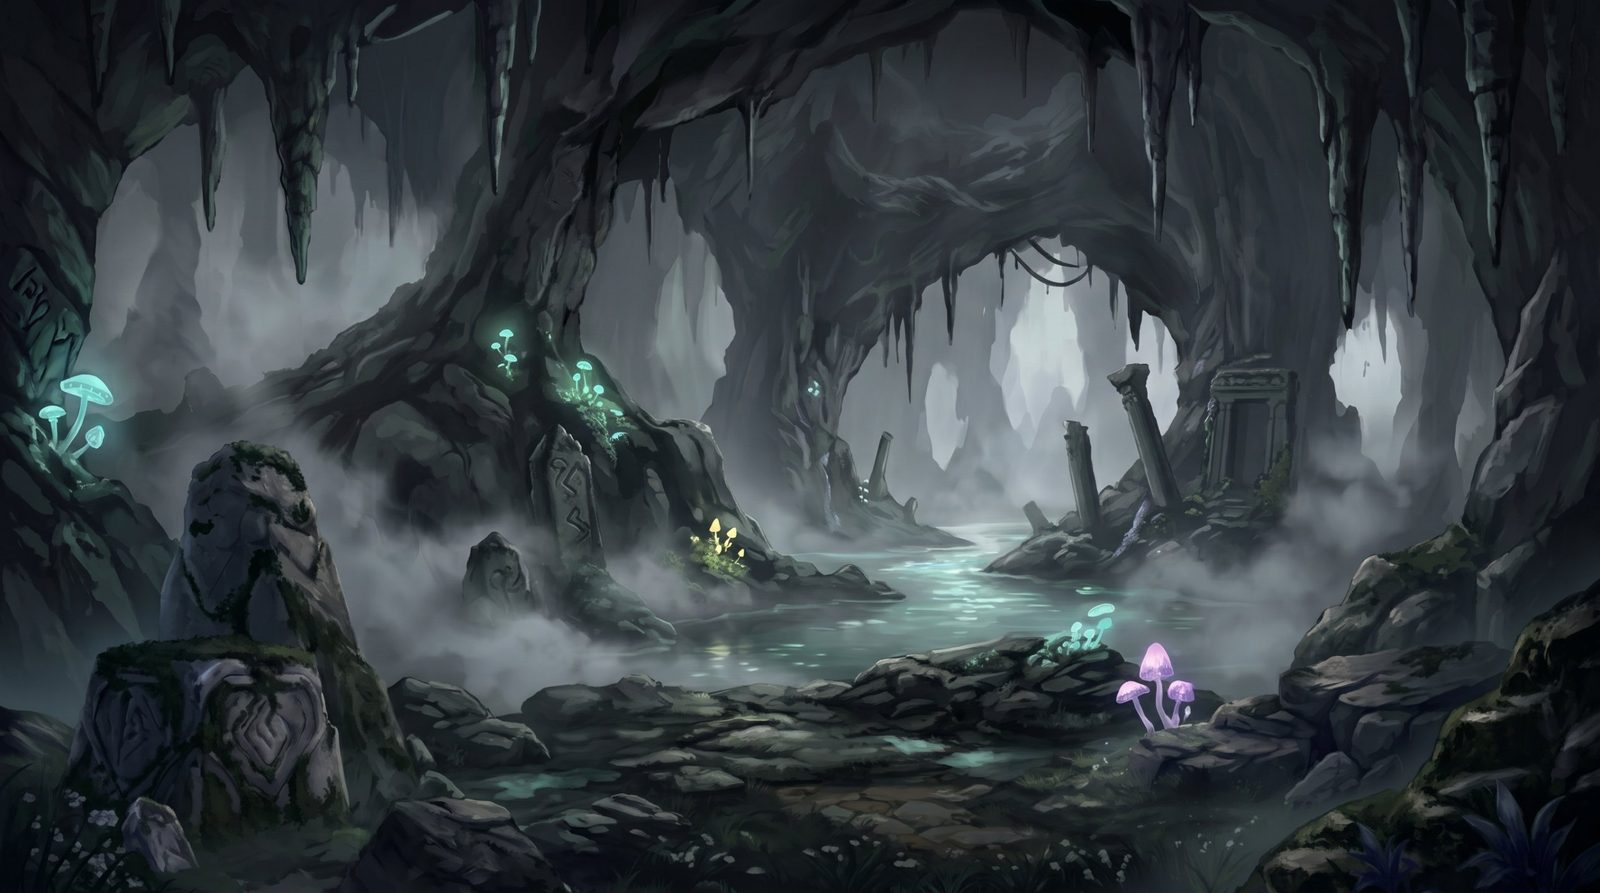
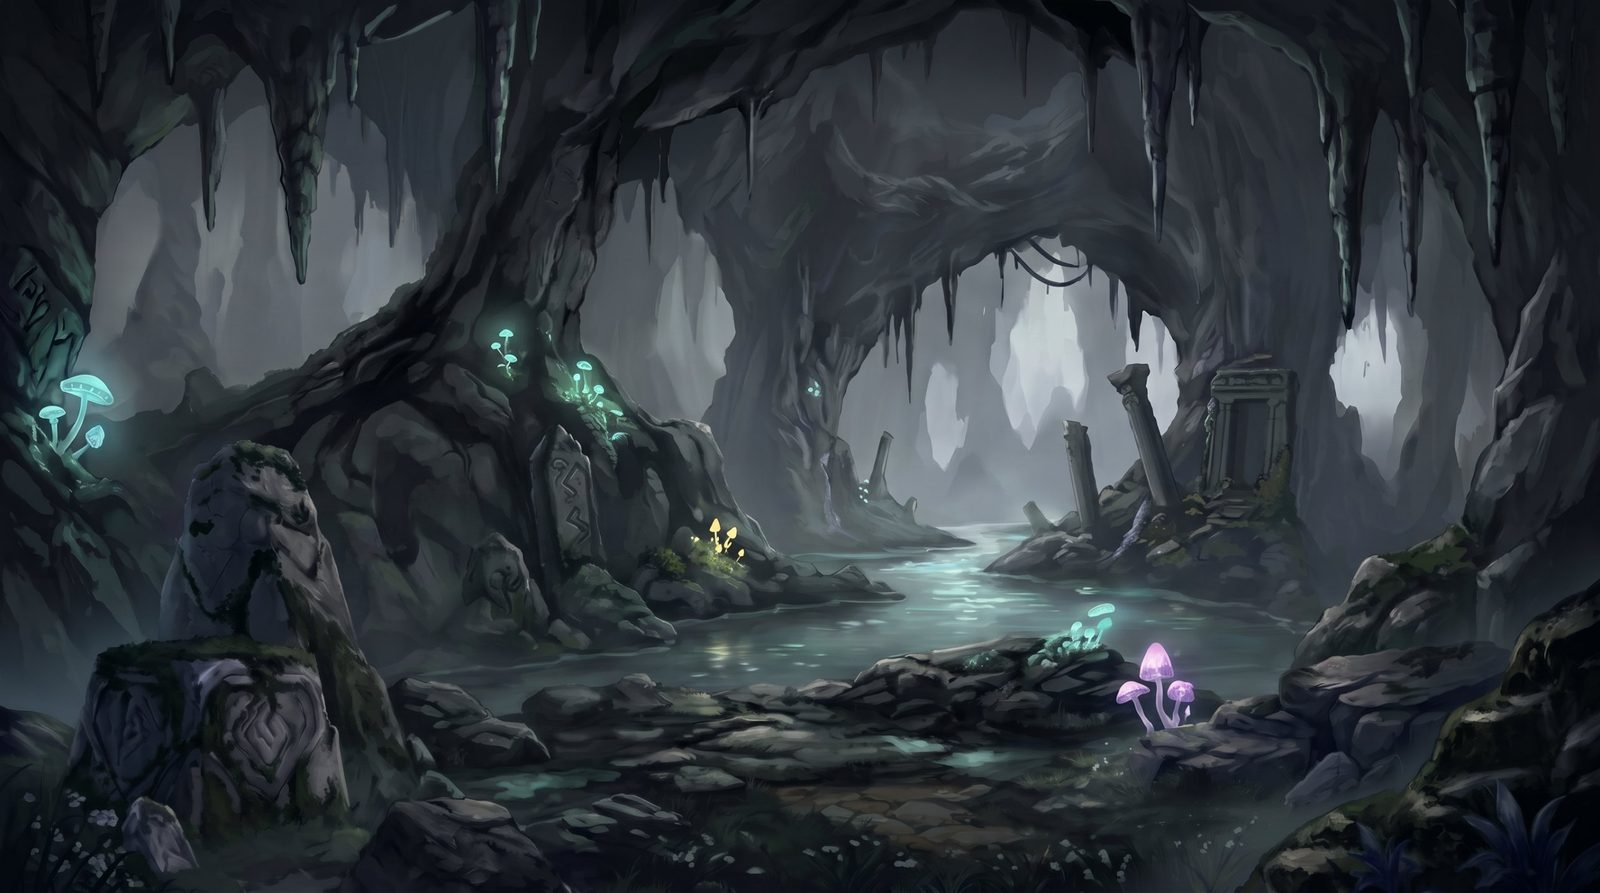
冒険3面（霧の洞窟）の朝・昼・夕方・夜の画像を追加
Claude-Session: https://claude.ai/code/session_01EftAGzqa5a4WGGvn4eGGrQ

diff --git a/index.html b/index.html
@@ -2187,7 +2187,7 @@
         <button onclick="openCouponModal()" title="秘密の鍵"
             style="background:rgba(5,20,10,0.55);border:1px solid rgba(60,140,80,0.35);border-radius:20px;padding:3px 9px;font-size:11px;cursor:pointer;color:rgba(140,200,150,0.65);display:flex;align-items:center;gap:3px;transition:all 0.3s;font-family:'Noto Serif JP',serif;letter-spacing:0.03em;opacity:0.7;flex-shrink:0;">🗝</button>
         <button id="accountChip" onclick="Cloud.chipClick()" title="アカウント"></button>
-        <div style="font-size:9px;letter-spacing:0.12em;color:rgba(200,170,80,0.45);font-family:'Noto Serif JP',serif;text-align:center;flex:1;padding:0 6px;">Designed by Takahiro Iimura<br><span id="appVersion" style="opacity:.8;">ver. 2026.11.02-1525</span></div>
+        <div style="font-size:9px;letter-spacing:0.12em;color:rgba(200,170,80,0.45);font-family:'Noto Serif JP',serif;text-align:center;flex:1;padding:0 6px;">Designed by Takahiro Iimura<br><span id="appVersion" style="opacity:.8;">ver. 2026.11.02-1540</span></div>
         <button id="bgmBtn" onclick="toggleBGM()" title="BGM ON/OFF"
             style="background:rgba(30,20,5,0.7);border:1.5px solid rgba(220,170,50,0.7);border-radius:20px;padding:3px 10px;font-size:12px;cursor:pointer;color:rgba(220,170,50,0.85);display:flex;align-items:center;gap:4px;transition:all 0.3s;font-family:'Noto Serif JP',serif;letter-spacing:0.05em;flex-shrink:0;">🔇 BGM</button>
     </div>
@@ -8240,7 +8240,7 @@ const Cloud = (function () {
     const ADV_AREAS = [
         { key: 'meadow',   imgs: ['morning', 'day', 'evening', 'night'], tod: 1, name: 'はじまりの草原', icon: '🌄', goal: '🗺', tint: '#a8d870', enc: ['🐇 野うさぎが道をふさいだ', '🪧 古い道しるべに文字が刻まれている', '🧚 草原の妖精が問いかけてきた', '🐦 小鳥が手紙をくわえてきた'] },
         { key: 'forest',   imgs: ['morning', 'day', 'evening', 'night'], tod: 1,   name: 'ささやきの森', icon: '🌲', goal: '🏕', tint: '#8fd060', enc: ['🍄 キノコの精が問いかけてきた', '🦊 森のキツネがなぞなぞを出した', '🌿 木の幹に古い文字が刻まれている', '🦉 フクロウが言葉の意味をたずねた'] },
-        { key: 'cave',     imgs: ['day'], tod: .35, name: '霧の洞窟',     icon: '🦇', goal: '💎', tint: '#8fa0ff', enc: ['🦇 コウモリの群れが道をふさいだ', '🕯 壁に光る文字が浮かび上がった', '🗝 錆びた扉に謎の言葉が…', '💧 地底湖に言葉が映っている'] },
+        { key: 'cave',     imgs: ['morning', 'day', 'evening', 'night'], tod: .35, name: '霧の洞窟',     icon: '🦇', goal: '💎', tint: '#8fa0ff', enc: ['🦇 コウモリの群れが道をふさいだ', '🕯 壁に光る文字が浮かび上がった', '🗝 錆びた扉に謎の言葉が…', '💧 地底湖に言葉が映っている'] },
         { key: 'hill',     imgs: ['day'], tod: .3,  name: '星降る丘',     icon: '⛰', goal: '🔭', tint: '#c9a6ff', enc: ['⭐ 流れ星が言葉を落としていった', '🐑 羊飼いの少年が道をたずねた', '🌙 月の精がささやいた', '🪁 風に乗って手紙が飛んできた'] },
         { key: 'ruins',    imgs: ['day'], tod: 1,   name: '古代の遺跡',   icon: '🏛', goal: '📜', tint: '#e8b850', enc: ['🗿 石像が口を開いた', '📜 古文書の一節が読めそうだ', '🐍 封印の蛇が合言葉を求めている', '🏺 壺の底に文字が刻まれている'] },
         { key: 'mountain', imgs: ['day'], tod: 1,   name: '竜の山脈',     icon: '🐉', goal: '🥚', tint: '#ff8a60', enc: ['🔥 竜の吐息で道が熱い…', '🦅 大鷲が試練を与えた', '⛏ 鉱夫が岩に刻んだ言葉を見せた', '🌋 火山の精霊が問いかけた'] },
